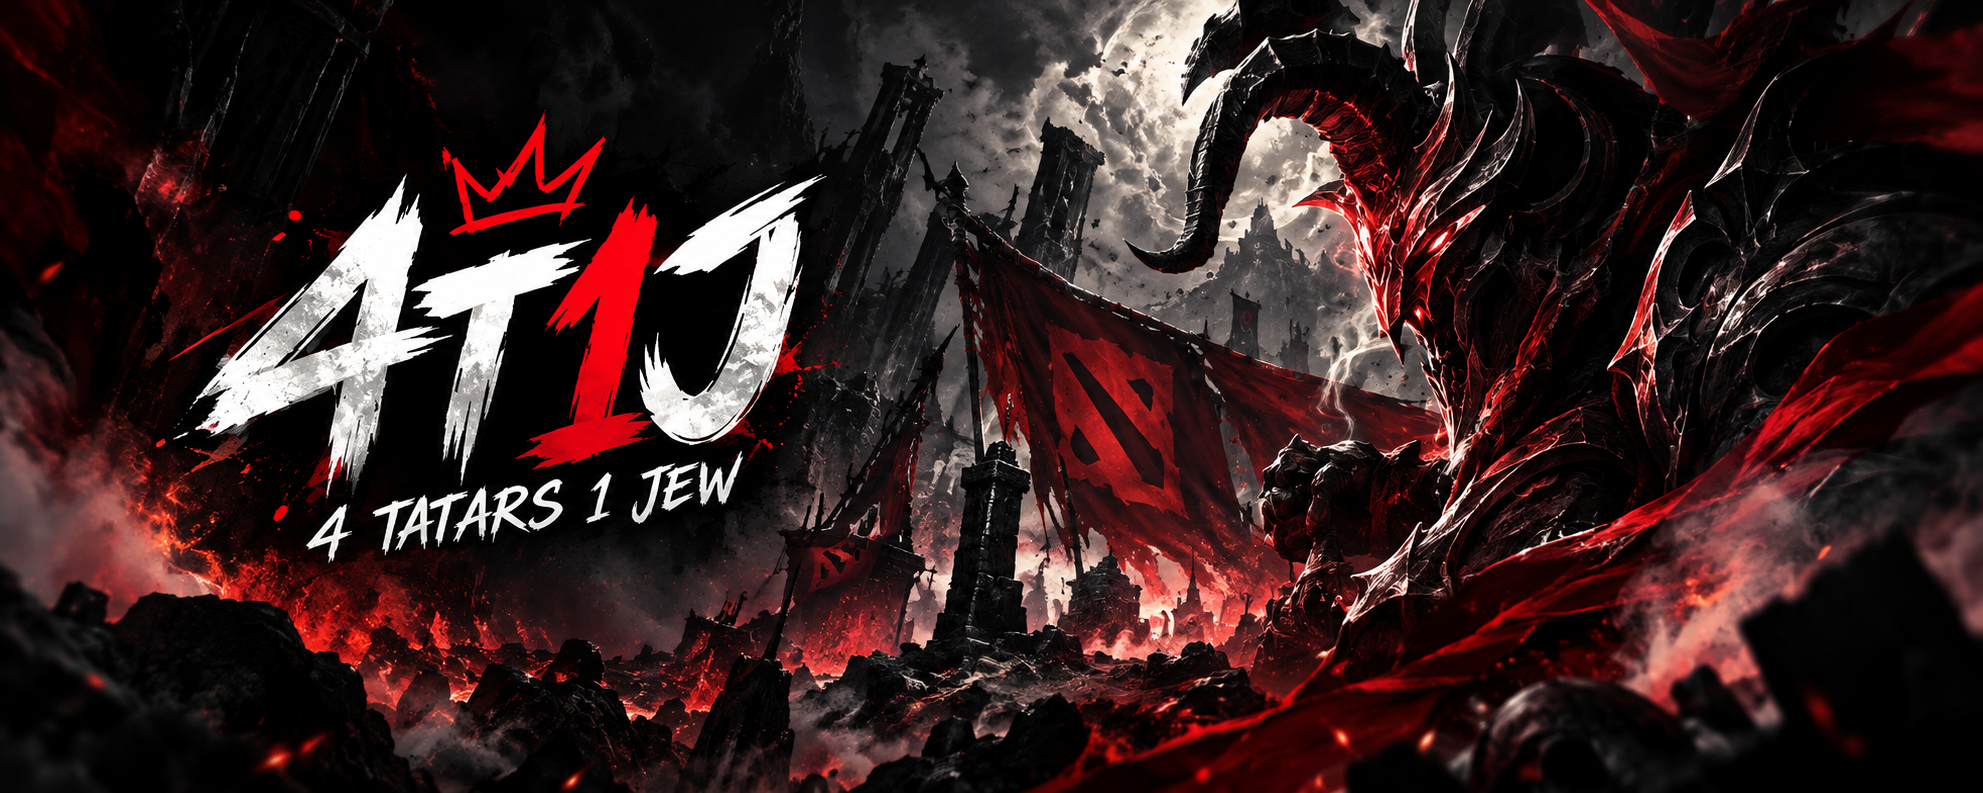
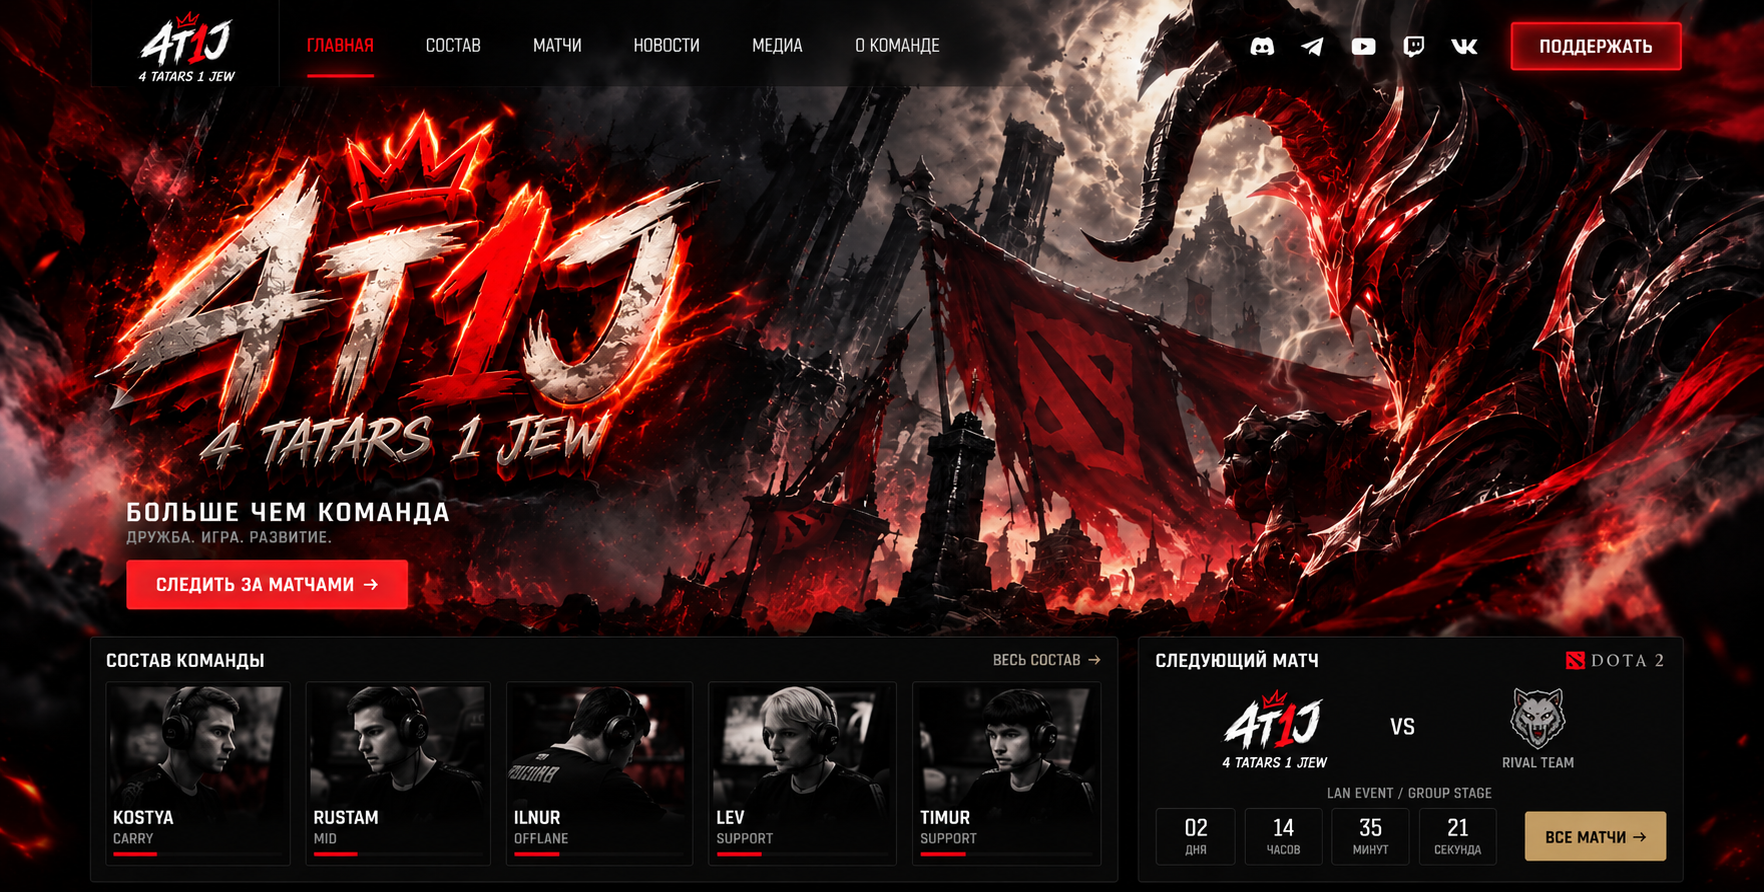
Add files via upload

diff --git a/src/styles.css b/src/styles.css
@@ -1,2 +1,159 @@
 *{box-sizing:border-box}body{margin:0;background:#050506;color:#eee;font-family:Arial,Helvetica,sans-serif}a{text-decoration:none;color:inherit}.site{min-height:100vh;background:radial-gradient(circle at 75% 20%,#381014 0,transparent 28%),linear-gradient(135deg,#050506,#101012 55%,#050506)}header{height:84px;padding:0 4vw;display:flex;align-items:center;gap:42px;background:#050506e8;border-bottom:1px solid #242428;position:relative;z-index:5}.brand{min-width:180px}.brand b{display:block;font-size:38px;font-style:italic;letter-spacing:-5px}.brand b span,.copy h1 span,.versus strong span,.footer b span{color:#f2262e}.brand small{font-size:8px;letter-spacing:2px;color:#aaa}nav{display:flex;gap:28px;flex:1;height:100%;align-items:center}nav a{font-size:11px;font-weight:800;color:#888;height:100%;display:flex;align-items:center;position:relative}nav a.active,nav a:hover{color:#fff}nav a.active:after{content:"";position:absolute;bottom:0;left:0;right:0;height:3px;background:#f2262e}button,.cta{background:#d71d25;border:1px solid #ff3038;color:#fff;padding:14px 22px;font-weight:900;letter-spacing:1px}.hero{min-height:620px;padding:45px 5vw 65px;display:grid;grid-template-columns:45% 55%;position:relative;overflow:hidden;border-bottom:1px solid #171719;background:linear-gradient(90deg,rgba(3,3,4,.10) 0%,rgba(3,3,4,.06) 50%,rgba(3,3,4,.16) 100%),linear-gradient(180deg,rgba(3,3,4,.04),rgba(3,3,4,.48)),url('/lebrone-site/hero-main.png') center center / cover no-repeat}.copy{position:relative;z-index:2;align-self:center}.copy>small,.page>small{color:#999;letter-spacing:2px;font-weight:900}.copy h1{font-size:clamp(110px,14vw,200px);line-height:.72;margin:20px 0 15px;font-style:italic;letter-spacing:-13px}.copy h2{font-size:20px;letter-spacing:3px}.copy p{font-size:23px;font-weight:900;line-height:1.2}.copy p span{font-size:12px;color:#999;letter-spacing:3px}.cta{display:inline-block;margin-top:12px}.visual{display:none}.visual:before{content:"";position:absolute;inset:0;background:radial-gradient(circle at 50% 45%,#572025,transparent 30%),linear-gradient(145deg,transparent,#09090b 75%)}.moon{position:absolute;width:260px;height:260px;border-radius:50%;right:25%;top:4%;background:radial-gradient(circle at 35% 30%,#666,#151518 70%);box-shadow:0 0 80px #ffffff0b}.flag{position:absolute;right:38%;top:40%;width:230px;height:140px;background:#180c0f;border-left:5px solid #c91820;transform:rotate(-8deg);display:grid;place-items:center;color:#c91820;font-size:45px;font-weight:1000;font-style:italic}.horned{position:absolute;right:7%;bottom:4%;width:270px;height:390px}.horned strong{position:absolute;left:65px;top:90px;width:140px;height:180px;border-radius:45%;background:linear-gradient(145deg,#666,#101014);box-shadow:0 120px 0 45px #15151a}.horned i{position:absolute;top:55px;width:90px;height:150px;border:18px solid #c7bfb4;border-bottom-color:transparent;border-radius:80% 20% 0 0}.horned i:first-child{left:0;transform:rotate(-35deg)}.horned i:nth-child(2){right:0;transform:rotate(35deg) scaleX(-1)}.quote{position:absolute;right:0;top:8%;color:#c7ae87;font-size:23px;font-weight:900;font-style:italic;transform:rotate(-7deg)}.grid{display:grid;grid-template-columns:1.5fr .8fr;gap:20px;padding:22px 3vw}.panel,.news,.merch{border:1px solid #29292d;background:#111114e8;padding:22px;box-shadow:0 20px 60px #0005}.panel>label{display:flex;justify-content:space-between;font-size:12px;font-weight:900;letter-spacing:1px}.panel label a{color:#777}.players{display:grid;grid-template-columns:repeat(5,1fr);gap:8px;margin-top:18px}.player{background:#17171a;border:1px solid #29292d;padding:8px}.player:hover{border-color:#e3272e;transform:translateY(-3px)}.portrait{height:155px;display:grid;place-items:center;background:radial-gradient(circle,#555,#121216 60%);font-size:38px;font-weight:900;color:#777}.player b{display:block;margin-top:9px}.player small{color:#777;font-size:9px;letter-spacing:1px}.versus{display:flex;justify-content:space-around;align-items:center;font-size:28px;padding:35px 0 20px}.versus b{font-size:14px;color:#777}.match>small{display:block;text-align:center;color:#777;letter-spacing:2px}.timer{display:flex;gap:5px;margin-top:22px}.timer b{flex:1;border:1px solid #333;padding:10px;text-align:center}.timer small{display:block;color:#777;font-size:7px}.gold{display:block;text-align:center;margin-top:12px;border:1px solid #786746;color:#d5bd91;padding:10px;font-size:9px;font-weight:900}.lower{padding-top:0}.news,.merch{min-height:250px;position:relative;overflow:hidden}.news{background:radial-gradient(circle at 75% 45%,#49171d,transparent 35%),#111114}.news small,.merch>small{color:#888;letter-spacing:2px}.news h2,.merch h2{position:absolute;left:25px;bottom:45px;font-size:22px;z-index:2}.news span{position:absolute;bottom:20px;left:25px;color:#777;font-size:9px}.news>b{position:absolute;right:25px;bottom:25px;border:1px solid #555;padding:10px}.shirt{position:absolute;right:30px;top:45px;width:180px;height:180px;background:#171719;clip-path:polygon(25% 0,75% 0,100% 20%,85% 35%,80% 100%,20% 100%,15% 35%,0 20%);display:grid;place-items:center;font-size:34px;font-weight:1000;font-style:italic}.merch h2{font-size:18px;top:85px;bottom:auto}.merch>span{position:absolute;left:25px;bottom:28px;border:1px solid #796a50;color:#d5bd91;padding:9px;font-size:9px}.partners{padding:24px 4vw;border-top:1px solid #202023;border-bottom:1px solid #202023;text-align:center;color:#666;font-weight:900;letter-spacing:2px}.page{padding:90px 6vw;min-height:calc(100vh - 84px)}.page h1{font-size:75px;font-style:italic;margin:8px 0}.page>p{color:#777;letter-spacing:2px}.roster{display:grid;grid-template-columns:repeat(5,1fr);gap:14px;margin-top:55px}.roster article{height:430px;border:1px solid #29292d;background:linear-gradient(#19191d,#09090b);padding:20px;display:flex;flex-direction:column;justify-content:end}.roster article>div{font-size:90px;color:#29292d;font-weight:1000;flex:1;display:grid;place-items:center}.roster strong{font-size:25px}.roster small{color:#777;letter-spacing:2px;margin-top:5px}.rows{margin-top:50px;border-top:1px solid #29292d}.rows div{padding:28px 20px;border-bottom:1px solid #29292d;background:#101012}.rows em{float:right;color:#b89f79;font-style:normal}.media{display:grid;grid-template-columns:2fr 1fr 1fr;gap:14px;margin-top:50px}.media div{height:230px;border:1px solid #29292d;display:grid;place-items:center;background:radial-gradient(circle,#383840,#101014);font-size:35px;font-weight:1000;font-style:italic;text-align:center}.media div:first-child{height:474px;grid-row:span 2}.media div:nth-child(2){background:linear-gradient(135deg,#74141a,#12090b)}.about{display:grid;grid-template-columns:1fr 1fr;gap:50px;align-items:center;margin-top:50px}.about>b{font-size:clamp(100px,18vw,240px);color:#1b1b1f;font-style:italic}.about p{font-size:22px;line-height:1.6;color:#bbb}footer{padding:35px 4vw;display:flex;justify-content:space-between;align-items:center;color:#666;font-size:10px}footer b{font-size:25px;font-style:italic}footer em{color:#b89f79;font-size:15px;font-weight:900}@media(max-width:900px){nav{gap:12px;overflow:auto}nav a{white-space:nowrap;font-size:9px}.hero{grid-template-columns:1fr}.visual{position:absolute;inset:0;opacity:.45}.copy{z-index:2}.grid{grid-template-columns:1fr}.roster{grid-template-columns:repeat(2,1fr)}}@media(max-width:600px){header{height:auto;flex-wrap:wrap;padding:15px 5vw}nav{order:3;width:100%;height:38px}.header button{display:none}.players{grid-template-columns:repeat(2,1fr)}.player .portrait{height:120px}.page h1{font-size:48px}.roster,.about{grid-template-columns:1fr}.media{grid-template-columns:1fr}.media div:first-child{height:230px;grid-row:auto}.lower{grid-template-columns:1fr}footer{flex-direction:column;gap:15px}}
 .hero-logo-space{height:315px}.copy p{margin-top:0}@media(max-width:900px){.hero-logo-space{height:250px}}@media(max-width:600px){.hero-logo-space{height:220px}}
+/* FINAL 4T1J HERO */
+.hero{
+  min-height:620px!important;
+  position:relative!important;
+  overflow:hidden!important;
+  display:flex!important;
+  align-items:center!important;
+  padding:50px 5vw 70px!important;
+  border-bottom:1px solid #1b1b1e!important;
+  background-image:
+    linear-gradient(90deg,rgba(0,0,0,.98) 0%,rgba(0,0,0,.90) 20%,rgba(0,0,0,.42) 48%,rgba(0,0,0,.08) 72%,rgba(0,0,0,.32) 100%),
+    linear-gradient(180deg,rgba(0,0,0,.10),rgba(0,0,0,.48)),
+    url("/lebrone-site/hero-bg.png")!important;
+  background-size:cover!important;
+  background-position:center!important;
+}
+.hero::before{
+  content:""!important;
+  position:absolute!important;
+  inset:0!important;
+  width:48%!important;
+  background:linear-gradient(90deg,#000 0%,rgba(0,0,0,.96) 35%,rgba(0,0,0,.68) 72%,transparent 100%)!important;
+  z-index:1!important;
+  pointer-events:none!important;
+}
+.hero-copy{
+  position:relative!important;
+  z-index:5!important;
+  width:48%!important;
+  max-width:650px!important;
+  padding-top:0!important;
+}
+.fire-logo{
+  position:relative;
+  display:inline-block;
+  margin-top:18px;
+  margin-bottom:26px;
+  transform:skewX(-6deg);
+  filter:drop-shadow(0 0 5px rgba(255,40,20,.85)) drop-shadow(0 0 20px rgba(255,20,0,.45)) drop-shadow(0 15px 20px rgba(0,0,0,.9));
+}
+.logo-crown{
+  position:absolute;
+  top:-52px;
+  left:42px;
+  font-size:52px;
+  color:#ff2525;
+  transform:rotate(-8deg);
+  text-shadow:0 0 6px #ff1a00,0 0 18px rgba(255,30,0,.9),0 0 35px rgba(255,0,0,.45);
+}
+.logo-main{
+  display:flex;
+  align-items:center;
+  font-size:clamp(105px,12vw,185px);
+  line-height:.78;
+  font-weight:1000;
+  font-style:italic;
+  letter-spacing:-15px;
+  color:#f4f1ec;
+  text-shadow:0 0 5px rgba(255,50,20,.9),0 0 18px rgba(255,30,0,.7),0 0 45px rgba(255,0,0,.35),8px 8px 0 #090909,12px 12px 0 #050505,16px 16px 0 #020202;
+}
+.logo-main strong{
+  color:#ff2020;
+  font-weight:1000;
+  text-shadow:0 0 5px #ff0000,0 0 15px #ff2200,0 0 35px rgba(255,20,0,.9),7px 7px 0 #8e0b0b,12px 12px 0 #450505,17px 17px 0 #180000;
+}
+.logo-main::after{
+  content:"";
+  position:absolute;
+  left:5%;
+  right:0;
+  bottom:-10px;
+  height:30px;
+  background:linear-gradient(90deg,transparent,#ff321d 15%,#ff0800 35%,transparent 52%,#ff321d 70%,transparent);
+  filter:blur(9px);
+  opacity:.7;
+  z-index:-1;
+}
+.logo-sub{
+  margin-top:18px;
+  font-size:18px;
+  font-weight:900;
+  letter-spacing:4px;
+  color:#f3eee8;
+  text-shadow:0 2px 5px #000,0 0 12px rgba(255,40,20,.25);
+}
+.hero-message{margin-top:35px}
+.hero-message h2{
+  margin:0;
+  font-size:clamp(24px,2.3vw,38px);
+  font-weight:1000;
+  color:#fff;
+  text-shadow:0 3px 10px #000;
+}
+.hero-message p{
+  margin:10px 0 0;
+  color:#aaa;
+  font-size:13px;
+  font-weight:900;
+  letter-spacing:4px;
+}
+.hero .cta{
+  margin-top:28px;
+  display:inline-flex;
+  align-items:center;
+  gap:20px;
+  padding:16px 25px;
+  background:linear-gradient(180deg,#ff3030,#c30d0d);
+  border:1px solid #ff4545;
+  color:#fff;
+  font-size:13px;
+  font-weight:1000;
+  letter-spacing:1px;
+  box-shadow:0 0 20px rgba(255,20,20,.35),inset 0 1px rgba(255,255,255,.2);
+}
+.hero-side-text{
+  position:absolute;
+  right:5%;
+  top:24%;
+  z-index:5;
+  display:flex;
+  flex-direction:column;
+  gap:5px;
+  color:#cbb28a;
+  font-size:22px;
+  font-weight:900;
+  font-style:italic;
+  transform:rotate(-7deg);
+  text-shadow:0 3px 8px #000;
+}
+.hero-side-text span:nth-child(3){margin-top:20px}
+.hero-side-text b{font-size:32px;align-self:flex-end}
+.hero .scroll{
+  position:absolute;
+  left:4vw;
+  bottom:25px;
+  z-index:6;
+  color:#777;
+  font-size:9px;
+  letter-spacing:3px;
+}
+.hero .scroll i{display:block;margin-top:8px;font-size:22px;color:#fff}
+@media(max-width:900px){
+  .hero{min-height:700px!important;background-position:58% center!important}
+  .hero-copy{width:70%!important}
+  .logo-main{font-size:100px}
+  .hero-side-text{right:4%;top:18%;font-size:15px}
+}
+@media(max-width:600px){
+  .hero{min-height:680px!important;align-items:flex-start!important;padding-top:100px!important;background-position:62% center!important}
+  .hero::before{width:100%!important;background:linear-gradient(180deg,rgba(0,0,0,.95),rgba(0,0,0,.55) 60%,rgba(0,0,0,.9))!important}
+  .hero-copy{width:100%!important}
+  .logo-main{font-size:82px;letter-spacing:-8px}
+  .logo-crown{top:-38px;left:30px;font-size:40px}
+  .logo-sub{font-size:12px;letter-spacing:2px}
+  .hero-message h2{font-size:25px}
+  .hero-side-text,.hero .scroll{display:none}
+}

diff --git a/src/App.jsx b/src/App.jsx
@@ -2,7 +2,41 @@ import{Link,NavLink,Routes,Route}from"react-router-dom";
 const players=[['KOSTYA','CARRY','01'],['RUSTAM','MID','02'],['ILNUR','OFFLANE','03'],['LEV','SUPPORT','04'],['TIMUR','SUPPORT','05']];
 function Layout({children}){return <div className="site"><header><Link className="brand" to="/"><b>4T<span>1</span>J</b><small>4 TATARS 1 JEW</small></Link><nav>{[['/','ГЛАВНАЯ'],['/roster','СОСТАВ'],['/matches','МАТЧИ'],['/news','НОВОСТИ'],['/media','МЕДИА'],['/about','О КОМАНДЕ']].map(x=><NavLink key={x[0]} to={x[0]} end={x[0]=='/'}>{x[1]}</NavLink>)}</nav><button>ПОДДЕРЖАТЬ</button></header>{children}<footer><b>4T<span>1</span>J</b><span>© 2026 4T1J ESPORTS</span><em>ДРУЖБА НАРОДОВ</em></footer></div>}
 function Visual(){return <div className="visual"><div className="moon"/><div className="flag">4T1J</div><div className="horned"><i/><i/><strong/></div><div className="quote">GOOD PEOPLE<br/>GOOD DOTA</div></div>}
-function Home(){return <><section className="hero"><div className="copy"><div className="hero-logo-space" aria-hidden="true"></div><p>БОЛЬШЕ ЧЕМ КОМАНДА<br/><span>ДРУЖБА. ИГРА. РАЗВИТИЕ.</span></p><Link className="cta" to="/matches">СЛЕДИТЬ ЗА МАТЧАМИ →</Link></div><Visual/></section><section className="grid"><div className="panel"><label>СОСТАВ КОМАНДЫ <Link to="/roster">ВЕСЬ СОСТАВ →</Link></label><div className="players">{players.map(p=><Link to="/roster" className="player" key={p[2]}><div className="portrait">{p[2]}</div><b>{p[0]}</b><small>{p[1]}</small></Link>)}</div></div><div className="panel match"><label>СЛЕДУЮЩИЙ МАТЧ</label><div className="versus"><strong>4T<span>1</span>J</strong><b>VS</b><strong>R</strong></div><small>LAN EVENT / GROUP STAGE</small><div className="timer"><b>02<small>ДНЯ</small></b><b>14<small>ЧАСОВ</small></b><b>35<small>МИНУТ</small></b></div><Link className="gold" to="/matches">ВСЕ МАТЧИ →</Link></div></section><section className="grid lower"><Link className="news" to="/news"><small>ПОСЛЕДНИЕ НОВОСТИ</small><h2>4T1J НА LAN-ТУРНИРЕ:<br/>ПЕРВЫЙ ШАГ К БОЛЬШИМ ПОБЕДАМ</h2><span>21 СЕН 2026</span><b>→</b></Link><Link className="merch" to="/media"><small>НАШ МЕРЧ</small><div className="shirt">4T1J</div><h2>СТИЛЬ,<br/>КОТОРЫЙ ОБЪЕДИНЯЕТ</h2><span>СМОТРЕТЬ →</span></Link></section><div className="partners">DOTA 2　 STEAM　 LOGITECH G　 HYPERX　 ZOWIE　 MONSTER ENERGY</div></>}
+function Home(){return <><section className="hero">
+        <div className="hero-copy">
+          <div className="eyebrow">DOTA 2 ESPORTS TEAM</div>
+
+          <div className="fire-logo">
+            <div className="logo-crown">♛</div>
+            <div className="logo-main">
+              <span>4T</span><strong>1</strong><span>J</span>
+            </div>
+            <div className="logo-sub">4 TATARS 1 JEW</div>
+          </div>
+
+          <div className="hero-message">
+            <h2>БОЛЬШЕ ЧЕМ КОМАНДА</h2>
+            <p>ДРУЖБА. ИГРА. РАЗВИТИЕ.</p>
+          </div>
+
+          <Link className="cta" to="/matches">
+            СЛЕДИТЬ ЗА МАТЧАМИ <b>→</b>
+          </Link>
+        </div>
+
+        <div className="hero-side-text">
+          <span>GOOD PEOPLE</span>
+          <span>GOOD DOTA</span>
+          <span>4 TATARS</span>
+          <span>1 JEW</span>
+          <b>♛</b>
+        </div>
+
+        <div className="scroll">
+          SCROLL
+          <i>↓</i>
+        </div>
+      </section><section className="grid"><div className="panel"><label>СОСТАВ КОМАНДЫ <Link to="/roster">ВЕСЬ СОСТАВ →</Link></label><div className="players">{players.map(p=><Link to="/roster" className="player" key={p[2]}><div className="portrait">{p[2]}</div><b>{p[0]}</b><small>{p[1]}</small></Link>)}</div></div><div className="panel match"><label>СЛЕДУЮЩИЙ МАТЧ</label><div className="versus"><strong>4T<span>1</span>J</strong><b>VS</b><strong>R</strong></div><small>LAN EVENT / GROUP STAGE</small><div className="timer"><b>02<small>ДНЯ</small></b><b>14<small>ЧАСОВ</small></b><b>35<small>МИНУТ</small></b></div><Link className="gold" to="/matches">ВСЕ МАТЧИ →</Link></div></section><section className="grid lower"><Link className="news" to="/news"><small>ПОСЛЕДНИЕ НОВОСТИ</small><h2>4T1J НА LAN-ТУРНИРЕ:<br/>ПЕРВЫЙ ШАГ К БОЛЬШИМ ПОБЕДАМ</h2><span>21 СЕН 2026</span><b>→</b></Link><Link className="merch" to="/media"><small>НАШ МЕРЧ</small><div className="shirt">4T1J</div><h2>СТИЛЬ,<br/>КОТОРЫЙ ОБЪЕДИНЯЕТ</h2><span>СМОТРЕТЬ →</span></Link></section><div className="partners">DOTA 2　 STEAM　 LOGITECH G　 HYPERX　 ZOWIE　 MONSTER ENERGY</div></>}
 function Page({title,sub,children}){return <section className="page"><small>4T1J ESPORTS</small><h1>{title}</h1><p>{sub}</p>{children}</section>}
 function Roster(){return <Page title="СОСТАВ" sub="ПЯТЬ ИГРОКОВ. ОДНА КОМАНДА."><div className="roster">{players.map(p=><article><div>{p[2]}</div><strong>{p[0]}</strong><small>{p[1]}</small></article>)}</div></Page>}
 function Matches(){return <Page title="МАТЧИ" sub="РАСПИСАНИЕ И РЕЗУЛЬТАТЫ 4T1J"><div className="rows"><div>LAN EVENT　 <b>4T1J</b>　 VS　 RIVAL TEAM　 <em>02 ДНЯ</em></div><div>ONLINE　 <b>4T1J</b>　 VS　 TEAM NORTH　 <em>28 СЕН</em></div><div>ONLINE　 <b>4T1J</b>　 2 : 1　 RED FOX　 <em>ПОБЕДА</em></div></div></Page>}
